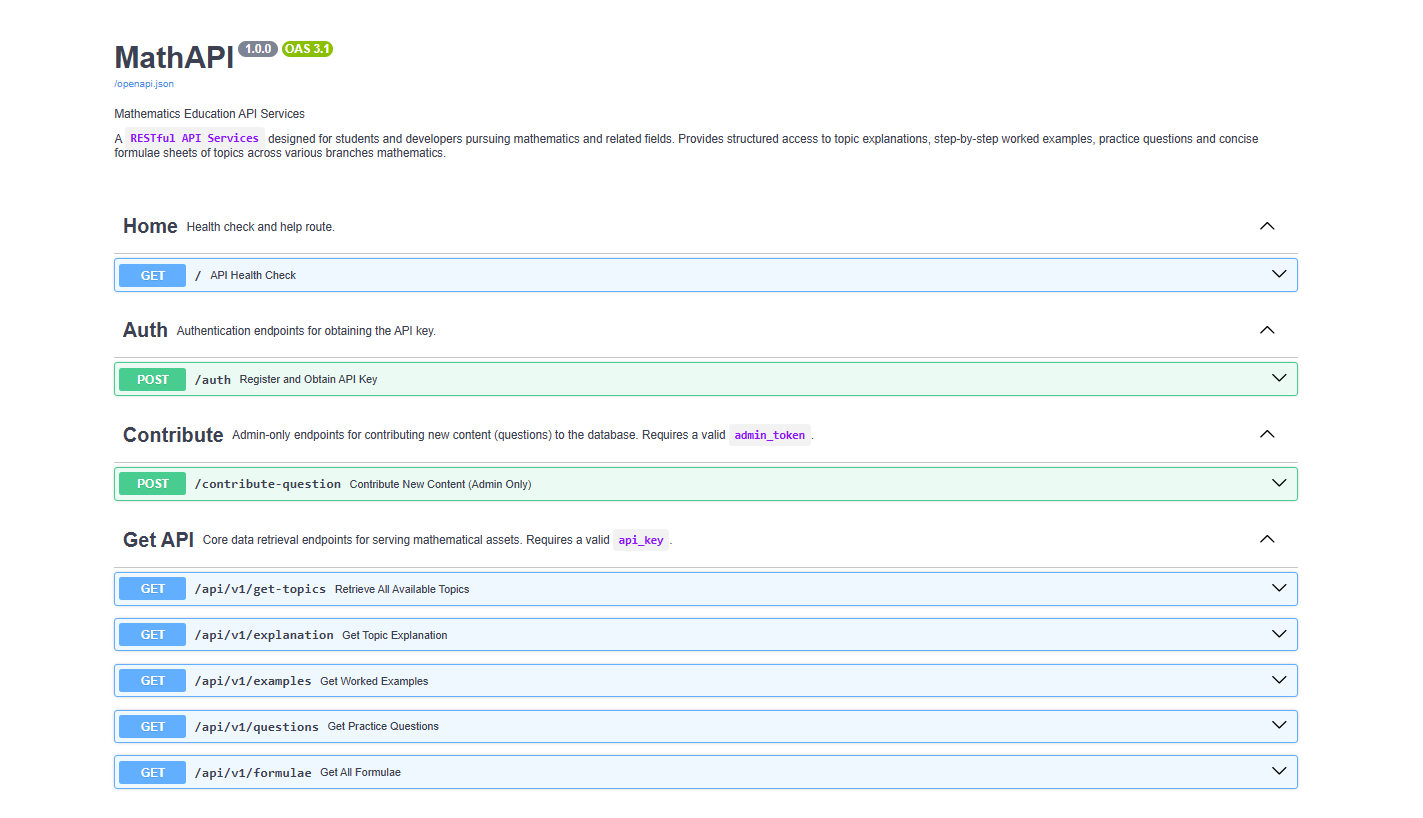
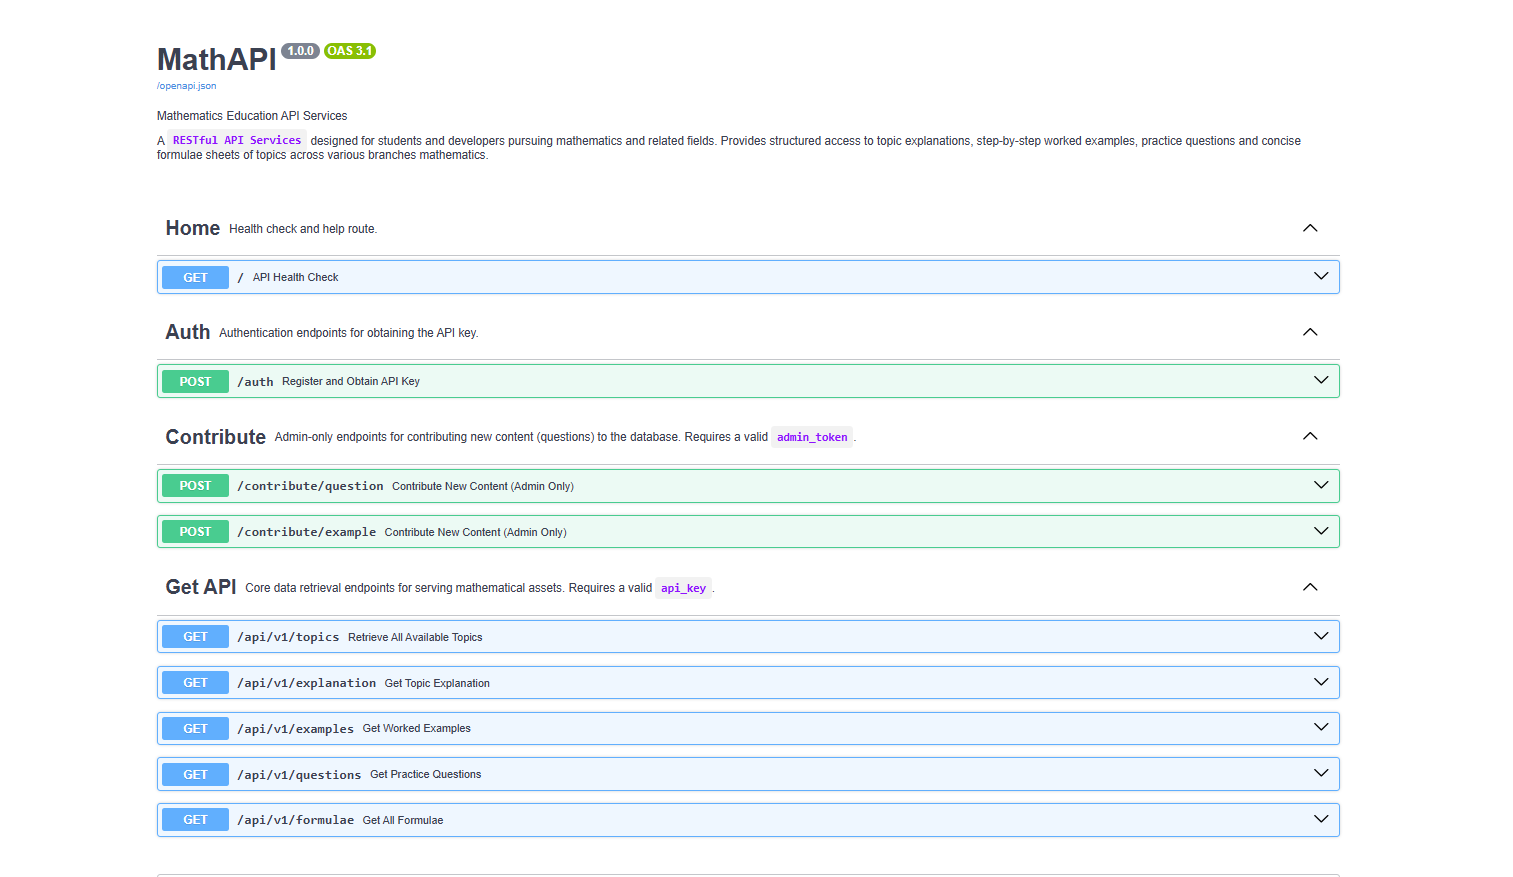
v1 update

Changed region(s): [[0.0618, 0.2445, 0.8967, 0.978], [0.0618, 0.0306, 0.8967, 0.2139]]

diff --git a/backend/controllers/contribute/example.py b/backend/controllers/contribute/example.py
@@ -1,0 +1,65 @@
+from fastapi import HTTPException, status
+from pymongo import MongoClient
+from typing import Any, Dict, List
+from backend.models.contribute.example import ExampleContributionSchema
+from backend.utils.config import settings
+from backend.utils.database import get_documents, import_data
+
+def example_contribution(
+        database: MongoClient, 
+        admin_token: str, 
+        request_data: ExampleContributionSchema     # type: ignore
+    ) -> Dict[str, Any]:
+
+    # VALIDATING ADMIN_TOKEN
+    if admin_token != settings.ADMIN_TOKEN:
+        raise HTTPException(
+            status_code=status.HTTP_401_UNAUTHORIZED,
+            detail="Unauthorized Access"
+        )
+    
+    # VALIDATING IS THE TOPIC_ID VALID
+    try:
+        topic: List[Dict[str, Any]] = get_documents(
+            database,
+            "datasets",
+            "topics",
+            {"topic_id": request_data.topic_id}
+        )
+    except ConnectionError as e:
+        raise HTTPException(
+            status_code=status.HTTP_503_SERVICE_UNAVAILABLE,
+            detail=f"{str(e)}"
+        )
+    
+    if not topic:
+        raise HTTPException(
+            status_code=status.HTTP_404_NOT_FOUND,
+            detail=f"Topic With ID - '{request_data.topic_id}' Not Found"
+        )
+    
+    # IMPORT DATA TO DATABASE
+    try:
+        request_data: Dict[str, Any] = request_data.model_dump()
+        request_data["difficulty"] = request_data["difficulty"].value
+
+        for i in range(len(request_data["question_type"])):
+            request_data["question_type"][i] = request_data["question_type"][i].value
+
+        import_data(
+            database,
+            "datasets",
+            "examples",
+            request_data
+        )
+    except ConnectionError as e:
+        raise HTTPException(
+            status_code=status.HTTP_503_SERVICE_UNAVAILABLE,
+            detail=f"{str(e)}"
+        )
+
+    # RETURN OBJECT
+    return {
+        "success": True,
+        "message": "Example Contribution Successful"
+    }

diff --git a/backend/routes/contribute/example.py b/backend/routes/contribute/example.py
@@ -1,0 +1,32 @@
+from fastapi import APIRouter, status, Depends, Query, Body
+from typing import Any
+from pymongo import MongoClient
+from backend.models.contribute.example import ContributionResponse, ExampleContributionSchema
+from backend.utils.database import get_db
+from backend.controllers.contribute.example import example_contribution
+
+app = APIRouter(
+    tags=["Contribute"],
+    prefix="/contribute"
+)
+
[email redacted](
+    "/example",
+    response_model=ContributionResponse,
+    status_code=status.HTTP_201_CREATED,
+    summary="Contribute New Content (Admin Only)",
+    description="Allows an admin to contribute new examples or practice examples to the database. Requires a valid `admin_token` (configured in the server environment) for authorization.",
+    response_description="Confirmation message indicating that example contribution was successful."
+)
+def contribute(
+    admin_token: str = Query(
+        ...,
+        description="Admin authorization token. Must match the server-configured `ADMIN_TOKEN` environment variable."
+    ),
+    data: ExampleContributionSchema = Body(
+        ...,
+        description="The content data to be contributed."
+    ),
+    database: MongoClient = Depends(get_db)
+) -> dict[str, Any]:
+    return example_contribution(database, admin_token, data)

diff --git a/backend/main.py b/backend/main.py
@@ -1,15 +1,20 @@
 from fastapi import FastAPI
 from backend.routes import (
-    home,
-    auth,
-    contribute
+    home
+)
+from backend.routes.auth import (
+    auth
 )
 from backend.routes.api.v1 import (
-    get_topics,
     explanation,
     examples,
     questions,
-    formulae
+    formulae,
+    topics
+)
+from backend.routes.contribute import (
+    question,
+    example
 )
 
 # DOCS METADATA TAGS
@@ -48,10 +53,12 @@ app = FastAPI(
 # INCLUDING ROUTERS
 app.include_router(home.app)
 app.include_router(auth.app)
-app.include_router(contribute.app)
 
-app.include_router(get_topics.app)
+app.include_router(topics.app)
 app.include_router(explanation.app)
 app.include_router(examples.app)
 app.include_router(questions.app)
 app.include_router(formulae.app)
+
+app.include_router(question.app)
+app.include_router(example.app)

diff --git a/backend/models/contribute/example.py b/backend/models/contribute/example.py
@@ -1,0 +1,9 @@
+from pydantic import BaseModel
+from backend.models.components.main import Example
+
+class ExampleContributionSchema(Example):
+    pass
+
+class ContributionResponse(BaseModel):
+    success: bool
+    message: str

diff --git a/backend/models/contribute/question.py b/backend/models/contribute/question.py
@@ -1,0 +1,9 @@
+from pydantic import BaseModel
+from backend.models.components.main import Question
+
+class QuestionContributionSchema(Question):
+    pass
+
+class ContributionResponse(BaseModel):
+    success: bool
+    message: str

diff --git a/README.md b/README.md
@@ -13,20 +13,28 @@
 
 ### Topic Catalog
 Browse all available mathematics topics with metadata including difficulty level, branch classification, prerequisites, and related topics.
+
 ### Detailed Explanations
 Get in-depth topic explanations covering definitions, origins, real-world applications, and step-by-step breakdowns.
+
 ### Worked Examples
 Access fully solved examples with key observations, concept mappings, formula references, and solution interpretations.
+
 ### Practice Questions
 Retrieve multiple-choice questions with difficulty and type filters to test your understanding.
+
 ### Formula Sheets
 Fetch concise formula collections for any topic in both plain text and LaTeX format.
+
 ### API Key Authentication
 Register with a username and email to receive a unique API key for authenticated access.
+
 ### Admin Contribution
-Authorized admins can contribute new questions directly to the database.
+Authorized admins can contribute new questions and examples directly to the database.
+
 ### Rich Metadata
 Each topic response includes counts of available explanations, examples, questions, formulae, and learning sources.
+
 ### Interactive Docs
 Full Swagger UI at `/docs` and ReDoc at `/redoc`.
 
@@ -38,12 +46,13 @@ Full Swagger UI at `/docs` and ReDoc at `/redoc`.
 |--------|----------|-------------|:---:|
 | `GET` | `/` | API health check with service info and quick-start guide | ❌ |
 | `POST` | `/auth` | Register with username + email, receive an API key | ❌ |
-| `GET` | `/api/v1/get-topics` | List all topics with metadata and resource counts | ✅ |
+| `GET` | `/api/v1/topics` | List all topics with metadata and resource counts | ✅ |
 | `GET` | `/api/v1/explanation` | Get topic explanation with optional formulae, examples, questions, sources | ✅ |
 | `GET` | `/api/v1/examples` | Get worked examples for a topic | ✅ |
 | `GET` | `/api/v1/questions` | Get practice questions with optional difficulty & type filters | ✅ |
 | `GET` | `/api/v1/formulae` | Get all formulae for a topic (plain text + LaTeX) | ✅ |
-| `POST` | `/contribute-question` | Admin-only — contribute a new question to the database | ✅ (admin_token) |
+| `POST` | `/contribute/question` | Admin-only — contribute a new question to the database | 👑 |
+| `POST` | `/contribute/example` | Admin-only — contribute a new example to the database | 👑 |
 
 ### Quick Start
 
@@ -54,7 +63,7 @@ curl -X POST "https://mathapi.vercel.app/auth" \
   -d '{"username": "your_username", "email": "[email redacted]"}'
 
 # Use the API key to access topics
-curl -X "https://mathapi.vercel.app/api/v1/get-topics?api_key=YOUR_API_KEY"
+curl -X "https://mathapi.vercel.app/api/v1/topics?api_key=YOUR_API_KEY"
 
 # Explore a specific topic
 curl -X "https://mathapi.vercel.app/api/v1/explanation?api_key=YOUR_API_KEY&topic_id=quadratic-equation"
@@ -70,28 +79,34 @@ MathAPI/
 │   ├── main.py                     # FastAPI app entry point
 │   ├── .env                        # Environment variables (not tracked) 
 │   ├── controllers/
-│   │   ├── auth.py                 # User registration logic
-│   │   ├── contribute.py           # Admin contribution logic
+│   │   └── auth/                   # User registration logic
+│   │       └── auth.py
+│   │   └── contribute/             # Admin contribution logic
+│   │       ├── question.py
+│   │       └── example.py
 │   │   └── api/
-│   │       └── v1/
-│   │           ├── get_topics.py   # Topic listing logic
-│   │           ├── explanation.py  # Topic explanation logic
-│   │           ├── examples.py     # Worked examples logic
-│   │           ├── questions.py    # Practice questions logic
-│   │           └── formulae.py     # Formulae retrieval logic
+│   │       └── v1/                 # Main Backend Logic
+│   │
 │   ├── models/
 │   │   ├── home.py                 # Home response schema
-│   │   ├── auth.py                 # Auth request/response schemas
-│   │   ├── contribute.py           # Contribution schemas
+│   │   └── auth/                   # Auth request/response schemas
+│   │       └── auth.py
+│   │   └── contribute/             # Contribution schemas
+│   │       ├── question.py
+│   │       └── example.py
 │   │   ├── api/
 │   │   │   └── v1/                 # API response Pydantic models
 │   │   └── components/
 │   │       ├── helpers.py          # Shared enums and base models
 │   │       └── main.py             # Composite models (Topic, Question, Explain)
+│   │
 │   ├── routes/
 │   │   ├── home.py                 # GET /
-│   │   ├── auth.py                 # POST /auth
-│   │   ├── contribute.py           # POST /contribute-question
+│   │   └── auth/
+│   │       └── auth.py             # POST /auth
+│   │   └── contribute/
+│   │       ├── question.py         # POST /contribute/question
+│   │       └── example.py          # POST /contribute/example
 │   │   └── api/
 │   │       └── v1/
 │   │           ├── get_topics.py   # GET /topics
@@ -99,10 +114,12 @@ MathAPI/
 │   │           ├── examples.py     # GET /examples
 │   │           ├── questions.py    # GET /questions
 │   │           └── formulae.py     # GET /formulae
+│   │
 │   └── utils/
 │       ├── config.py               # Settings from .env
 │       ├── database.py             # MongoDB connection & helpers
 │       └── helpers.py              # API key generation & verification
+│
 ├── requirements.txt                # Dependency management
 ├── vercel.json                     # Vercel deployment config
 └── README.md                       # Documentation
@@ -133,7 +150,7 @@ Found a bug or have a feature request? Open an issue on the [GitHub repository](
 Contribute questions directly to the database via the authenticated endpoint:
 
 ```bash
-curl -X POST "https://mathapi.vercel.app/contribute-question?admin_token=YOUR_ADMIN_TOKEN" \
+curl -X POST "https://mathapi.vercel.app/contribute/question?admin_token=YOUR_ADMIN_TOKEN" \
   -H "Content-Type: application/json" \
   -d '{
     "topic_id": "quadratic-equation",